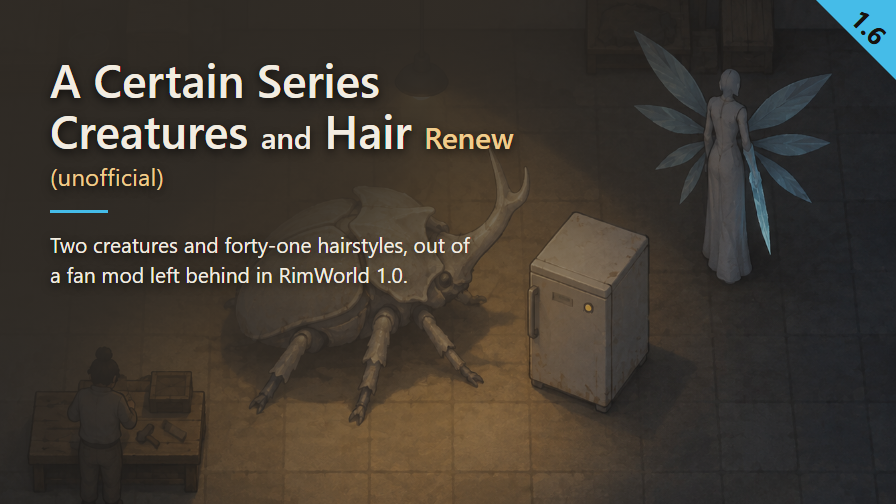
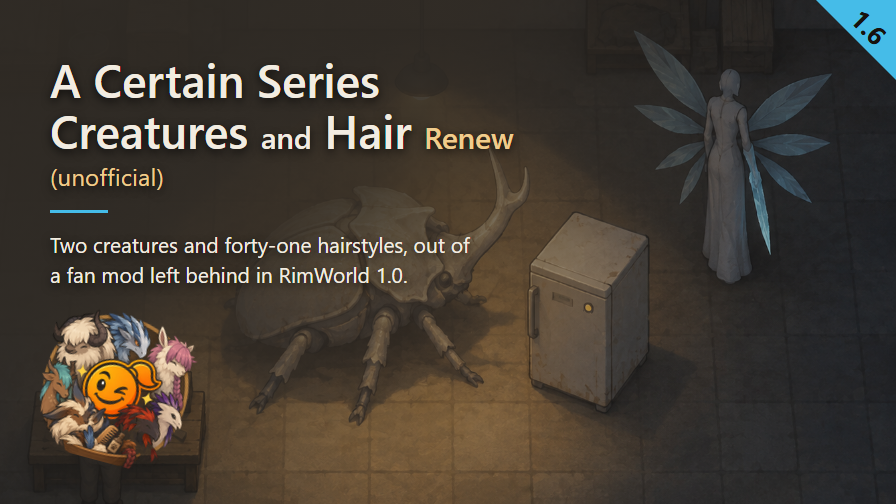
Preview.png: compose the cut-out ModIcon, tilted +15deg bottom-left (owner's rule); gallery gains 00-preview.jpg

Changed region(s): [[0.0312, 0.625, 0.2188, 0.9226]]

diff --git a/STATUS.md b/STATUS.md
@@ -23,11 +23,12 @@ remaining:
   - decision for the owner: the "violence" content box, left unticked (`PUBLICATION.md`, Content boxes)
   - unverified: whether a trader other than the two exotic ones sells the creatures (the description says exotic goods traders only); whether the beetle's vanilla parts (eyes, antennae) have a surgery in Animal Prosthetics 2; the beetle's aggression (subjective, not automated)
   - fragile: `Mod/Patches/NocturnalAnimals.xml` guards on the other mod's display name (`[XND] Nocturnal Animals (Continued)`); `Tests/Test-Mod.ps1` group 14 compares it with the installed copy when present
+  - decision for the owner: `Preview.png` now carries the cut-out `ModIcon.png`, tilted +15° bottom-left (`Art/compose-preview.cjs`, her rule of 2026-09-29); `Art/Workshop/00-preview.jpg` added as its copy. Neither is on the Steam page yet (gallery and preview upload are manual, `update_preview` was off for `1.0.0`): upload both by hand when convenient
   - resolved 2026-09-29: `.github/` regenerated by another session to template `82de20b8aa50` (`3cfcd47`). A dry-run of the exact commit is still needed before the next publish (not replayed since)
   - asked of PickleTools, no reply: Chinese fonts missing in the research-window capture (every project affected); a `forcedMiss` rule for `Check-ConfigErrors.ps1`. A 4 GB core dump from a crashed run of 2026-09-28 has no known path
   - ideas not started: `BACKLOG.md`
 session:      local_62b40a02-9527-4bdd-a977-f6bbd6de409d
-updated:      2026-09-28, description completed (Pickle and RimLogging links, languages, requirements, bug line); docs cleaned
+updated:      2026-09-29, Preview.png gets the cut-out ModIcon badge (owner's rule, STYLE_RIMWORLD.md), gallery gains `00-preview.jpg`; docs and evidence trimmed
 ---
 
 # A Certain Series - Creatures and Hair Renew — status

diff --git a/PUBLICATION.md b/PUBLICATION.md
@@ -161,6 +161,7 @@ them. Every colonist and creature stands on open ground, no interface, no neighb
 
 | File | What it shows | Source |
 |---|---|---|
+| `00-preview.jpg` | Copy of the delivered `Preview.png` (owner's rule, 2026-09-29, `STYLE_RIMWORLD.md`): the vitrine itself, ModIcon cut out and tilted +15° bottom-left | `Art/compose-preview.cjs`, no recrop |
 | `01-hairstyle-misaka.jpg` | Rina wearing ACS_misaka, facing the camera, filling most of the frame | Feature 17, ticket `cdfc` |
 | `02-beetle.jpg` | The white rhinoceros beetle, all six legs, horn and elytra visible | Feature 18, ticket `a6f3` |
 | `03-seraph.jpg` | God's Power, all eight wings and the sword | Feature 18, ticket `a6f3` |
